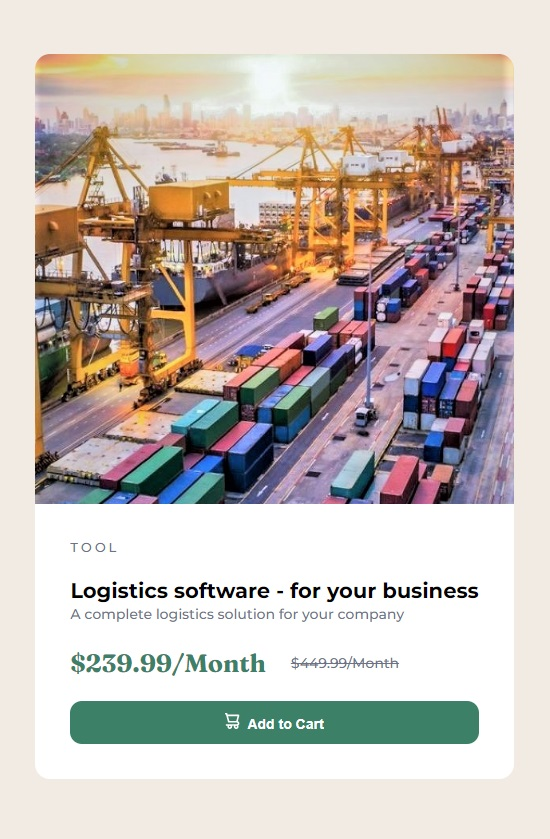
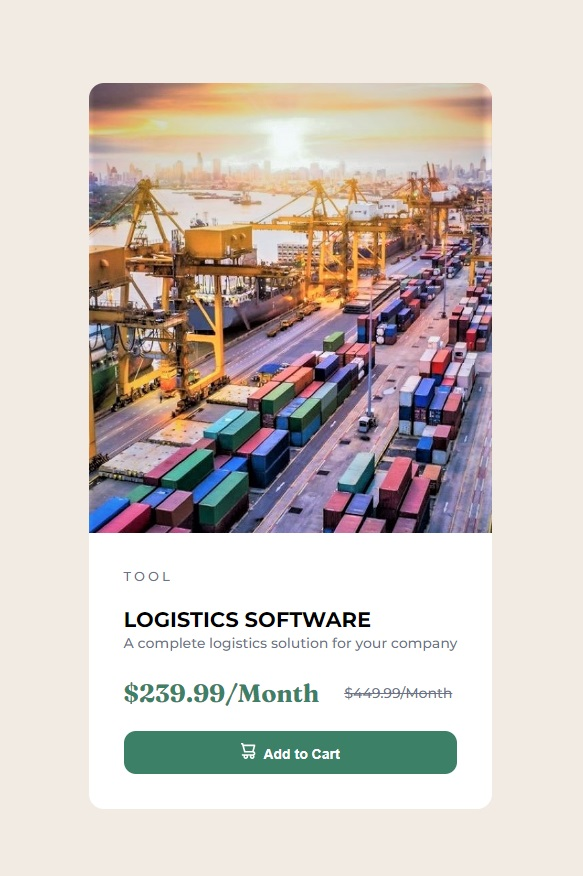
readme improvements

diff --git a/index.html b/index.html
@@ -15,7 +15,7 @@
     </div>
     <div class="card-content">
       <h6 class="pro-cat">Tool</h6>
-      <h2 class="h2-pro-name">Logistics software - for your business</h2>
+      <h2 class="h2-pro-name">LOGISTICS SOFTWARE</h2>
       <p class="pro-des">A complete logistics solution for your company</p>
       <div class="price">
         <p class="current-price">$239.99/Month</p>

diff --git a/style.css b/style.css
@@ -1,6 +1,4 @@
 @import url('https://fonts.googleapis.com/css2?family=Fraunces:opsz,wght@9..144,700&family=Montserrat:wght@500;700&display=swap');
-/*font-family: 'Fraunces', serif;
-font-family: 'Montserrat', sans-serif;*/
 
 *{
     margin: 0;

diff --git a/README.md b/README.md
@@ -1,13 +1,20 @@
-# Frontend Mentor - Product preview card component
+# Product preview card component
 
 ![Design preview for the Product preview card component coding challenge](./design/desktop-design.jpg)
 
-This project was adapted with the constitution:
+Demo: https://wkmateusr.github.io/pilot/
 
-Logistics software - for your business;
+## INTRO
 
-It is a pilot project to train HTML/CSS skills;
+Este é um desafio Front-end do Frontend Mentor.
+*This is a Frontend Mentor Frontend challenge.*
 
-To view my project, go to: https://wkmateusr.github.io/pilot/
+## FINALIDADE - PURPOSE
 
-Thanks for watching!
+A finalidade é exibir um cartão de um determinado produto ajustável a tela.
+*The purpose is to display a card of a certain product adjustable to the screen.*
+
+## INSTALAÇÃO/ COMO UTILIZAR - INSTALLATION / HOW TO USE IT
+
+Estrutura base em HTML e estilizado em CSS, as fontes foram importadas do googleapis, foram acrescentadas no final do código em CSS estruturas condicionais ao tamanho de exibição na horizontal para adaptar a apresentação.
+*Basic structure in HTML and styled in CSS, the fonts were imported from googleapis, conditional structures were added at the end of the CSS code to the horizontal display size to adapt the presentation.*
